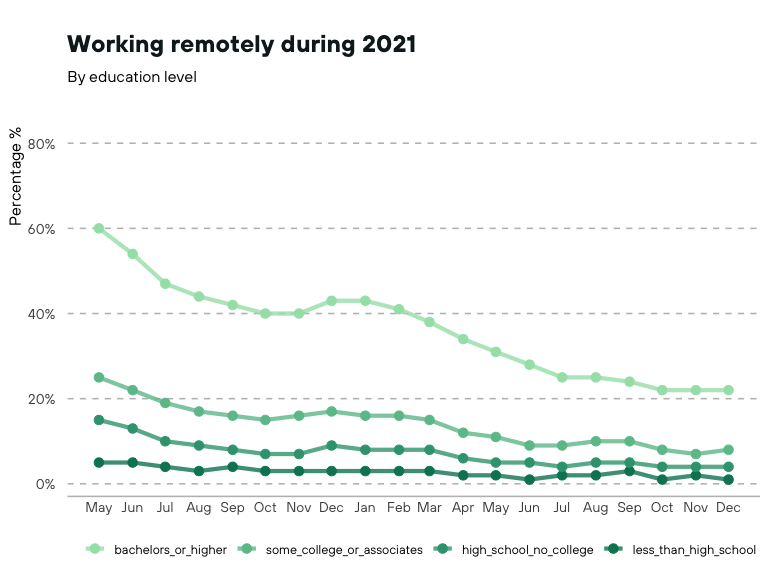
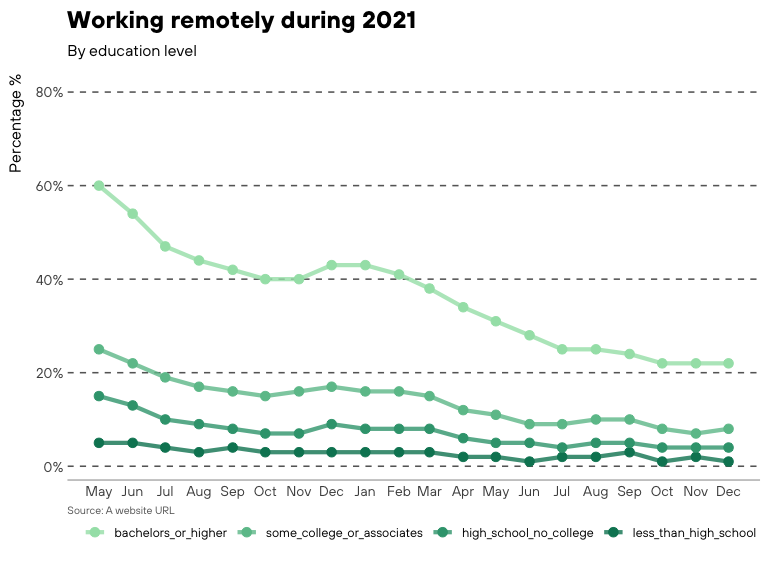
Update README and cookbook

diff --git a/README.md b/README.md
@@ -47,7 +47,8 @@ ggplot(cori_education,
   labs(title = "Working remotely during 2021",
        subtitle = "By education level",
        x = NULL,
-       y = "Percentage %")
+       y = "Percentage %",
+       caption = "Source: A website URL")
 ```
 
 <img src="man/figures/README-example-1.png" width="100%" />
